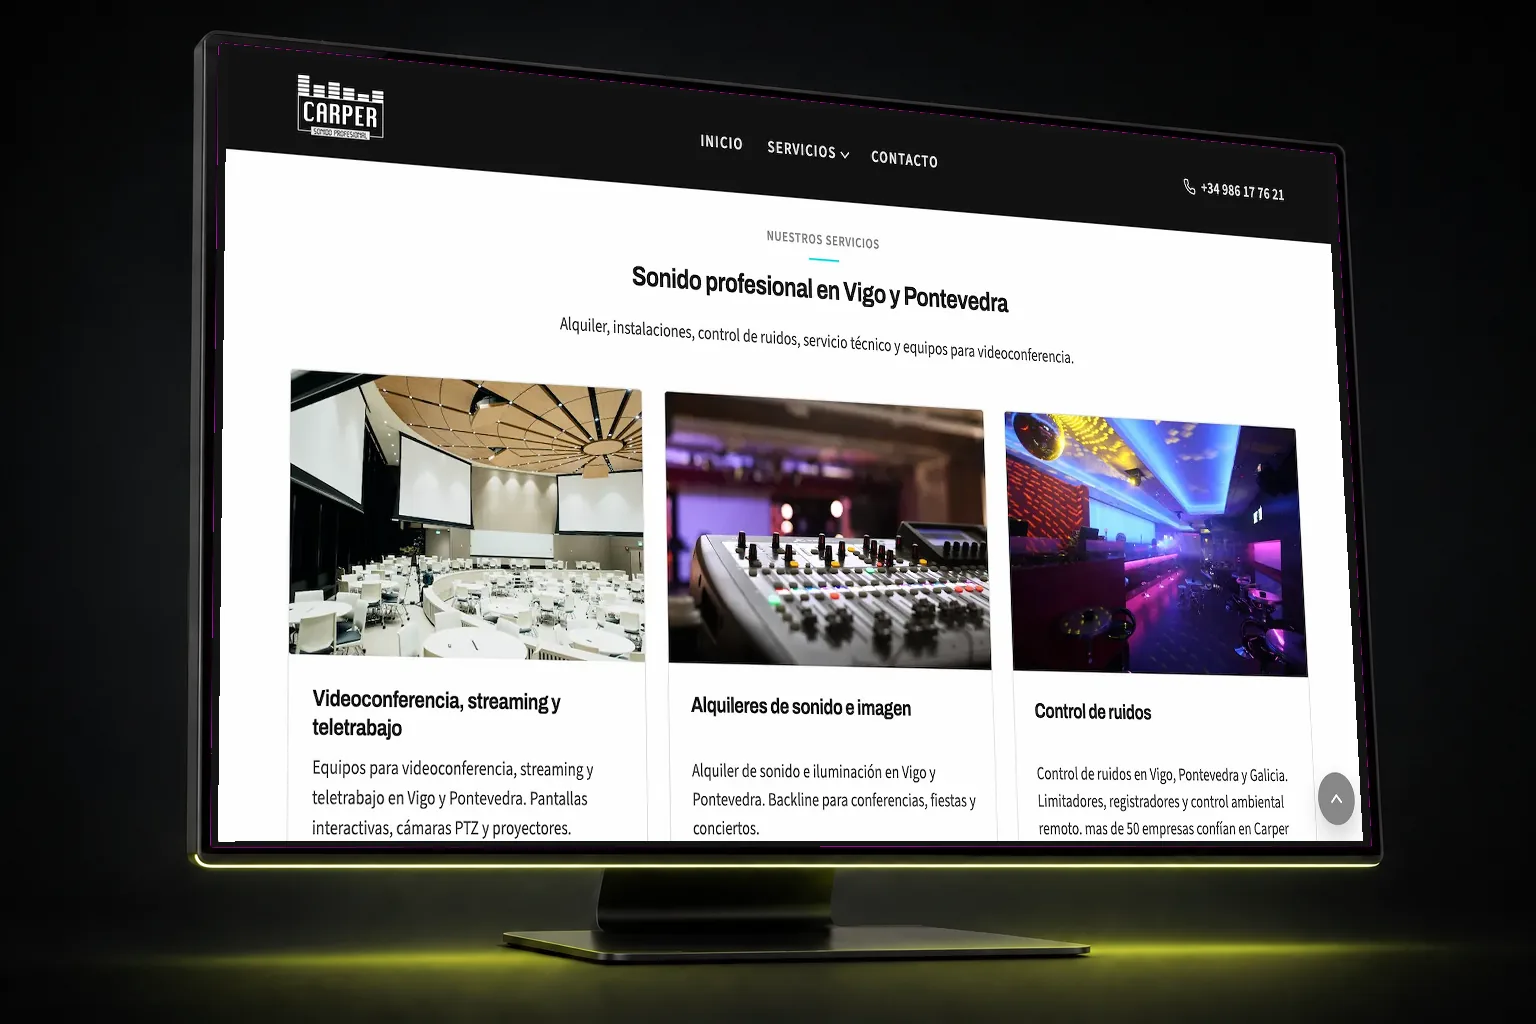
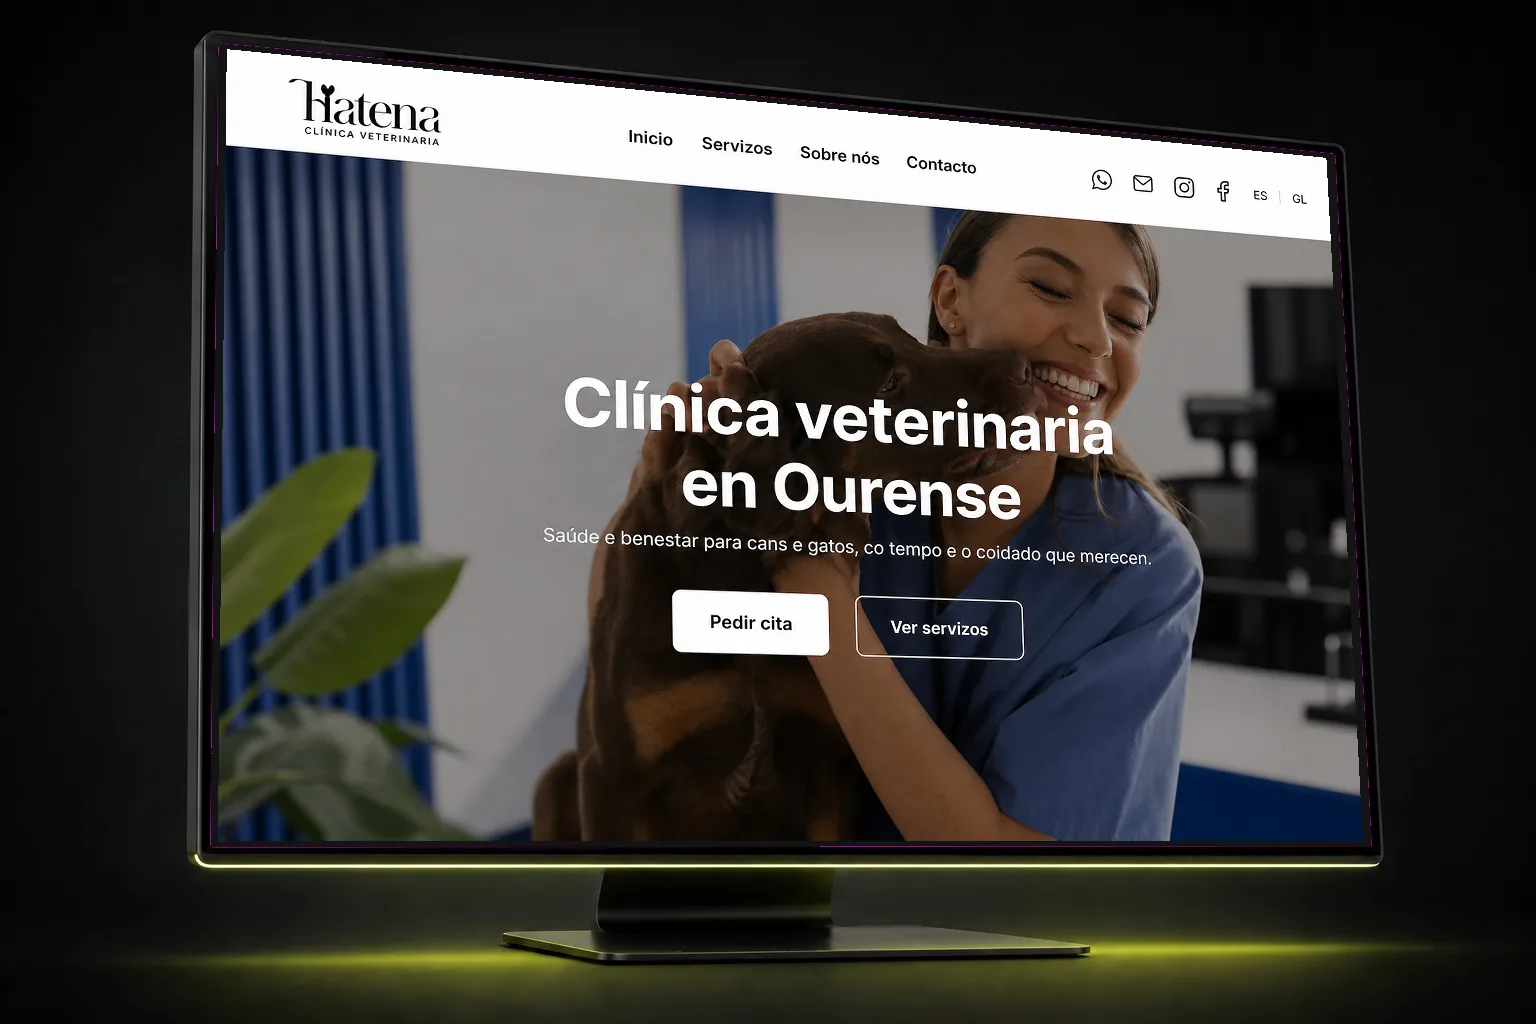
Update service images and enhance layout responsiveness
- Replace the service web image with a new asset for Clínica Veterinaria Hatena.
- Add a new image for captura-hatena.
- Adjust CSS to improve layout responsiveness, including changes to min-height properties and overflow settings.
- Optimize scroll event handling in the BackToTopButton component for better performance.

diff --git a/src/index.css b/src/index.css
@@ -76,6 +76,7 @@
     position: relative;
     display: flex;
     min-height: 100vh;
+    min-height: 100svh;
     width: 100%;
     align-items: center;
     overflow: hidden;
@@ -119,15 +120,17 @@
   max-width: var(--page-max);
 }
 
-/* Zoom suave en fotos de contenido; el recorte lo hace el padre
-   (overflow-hidden). .group:hover cubre cards con overlay encima. */
+/* Zoom suave en fotos de cards; no en todas las img (el hover al
+   pasar el dedo/ratón durante el scroll hacía temblar la página). */
 img {
   object-fit: cover;
-  transition: transform 0.5s ease-out;
 }
 
-@media (hover: hover) and (prefers-reduced-motion: no-preference) {
-  img:hover,
+@media (hover: hover) and (pointer: fine) and (prefers-reduced-motion: no-preference) {
+  .group img {
+    transition: transform 0.5s ease-out;
+  }
+
   .group:hover img {
     transform: scale(1.1);
   }
@@ -188,6 +191,7 @@ img {
 .reveal-on-scroll.is-visible {
   opacity: 1;
   transform: translateY(0);
+  will-change: auto;
 }
 
 @media (prefers-reduced-motion: reduce) {
@@ -527,9 +531,8 @@ img {
 }
 
 html {
-  scroll-behavior: smooth;
   font-size: 100%;
-  overflow-x: hidden;
+  overflow-x: clip;
 }
 
 /* Los headings usan Space Grotesk (geométrica, técnica) para reforzar
@@ -546,7 +549,7 @@ h6 {
 }
 
 body {
-  overflow-x: hidden;
+  overflow-x: clip;
 }
 
 @media (min-width: 768px) {

diff --git a/src/components/Hero.tsx b/src/components/Hero.tsx
@@ -80,7 +80,7 @@ const Hero = ({
     <section
       id='hero'
       className={`page-hero-compact bg-ink-dark text-ink-dark ${
-        videoUrl ? 'min-h-dvh' : ''
+        videoUrl ? 'min-h-svh' : ''
       }`}
     >
       {hasBackground && backgroundUrl ? (
@@ -97,7 +97,7 @@ const Hero = ({
         <video
           ref={videoRef}
           key={videoUrl}
-          className='pointer-events-none absolute inset-0 z-0 h-full w-full object-cover object-[28%_center] transform-gpu md:object-center'
+          className='pointer-events-none absolute inset-0 z-0 h-full w-full object-cover object-[28%_center] md:object-center'
           autoPlay
           muted
           loop

diff --git a/src/components/Services.tsx b/src/components/Services.tsx
@@ -22,7 +22,7 @@ const Services = ({ description }: ServicesProps) => {
       title: SITE_WEB_LABEL,
       link: SITE_WEB_PATH,
       image: '/img/sections/servicio-web.webp',
-      imageAlt: 'Web de Carper Sonido',
+      imageAlt: 'Web de Clínica Veterinaria Hatena',
     },
     {
       title: SITE_SHOP_LABEL,

diff --git a/src/components/BackToTopButton.tsx b/src/components/BackToTopButton.tsx
@@ -14,7 +14,7 @@ const BackToTopButton = () => {
       }
     };
 
-    window.addEventListener('scroll', toggleVisibility);
+    window.addEventListener('scroll', toggleVisibility, { passive: true });
     return () => window.removeEventListener('scroll', toggleVisibility);
   }, []);
 

diff --git a/src/App.tsx b/src/App.tsx
@@ -66,7 +66,7 @@ function AppContent() {
   }
 
   return (
-    <div className='relative min-h-screen overflow-x-hidden bg-surface-base pb-16 md:pb-0'>
+    <div className='relative min-h-svh overflow-x-clip bg-surface-base pb-16 md:pb-0'>
       <Header />
 
       <Routes>
